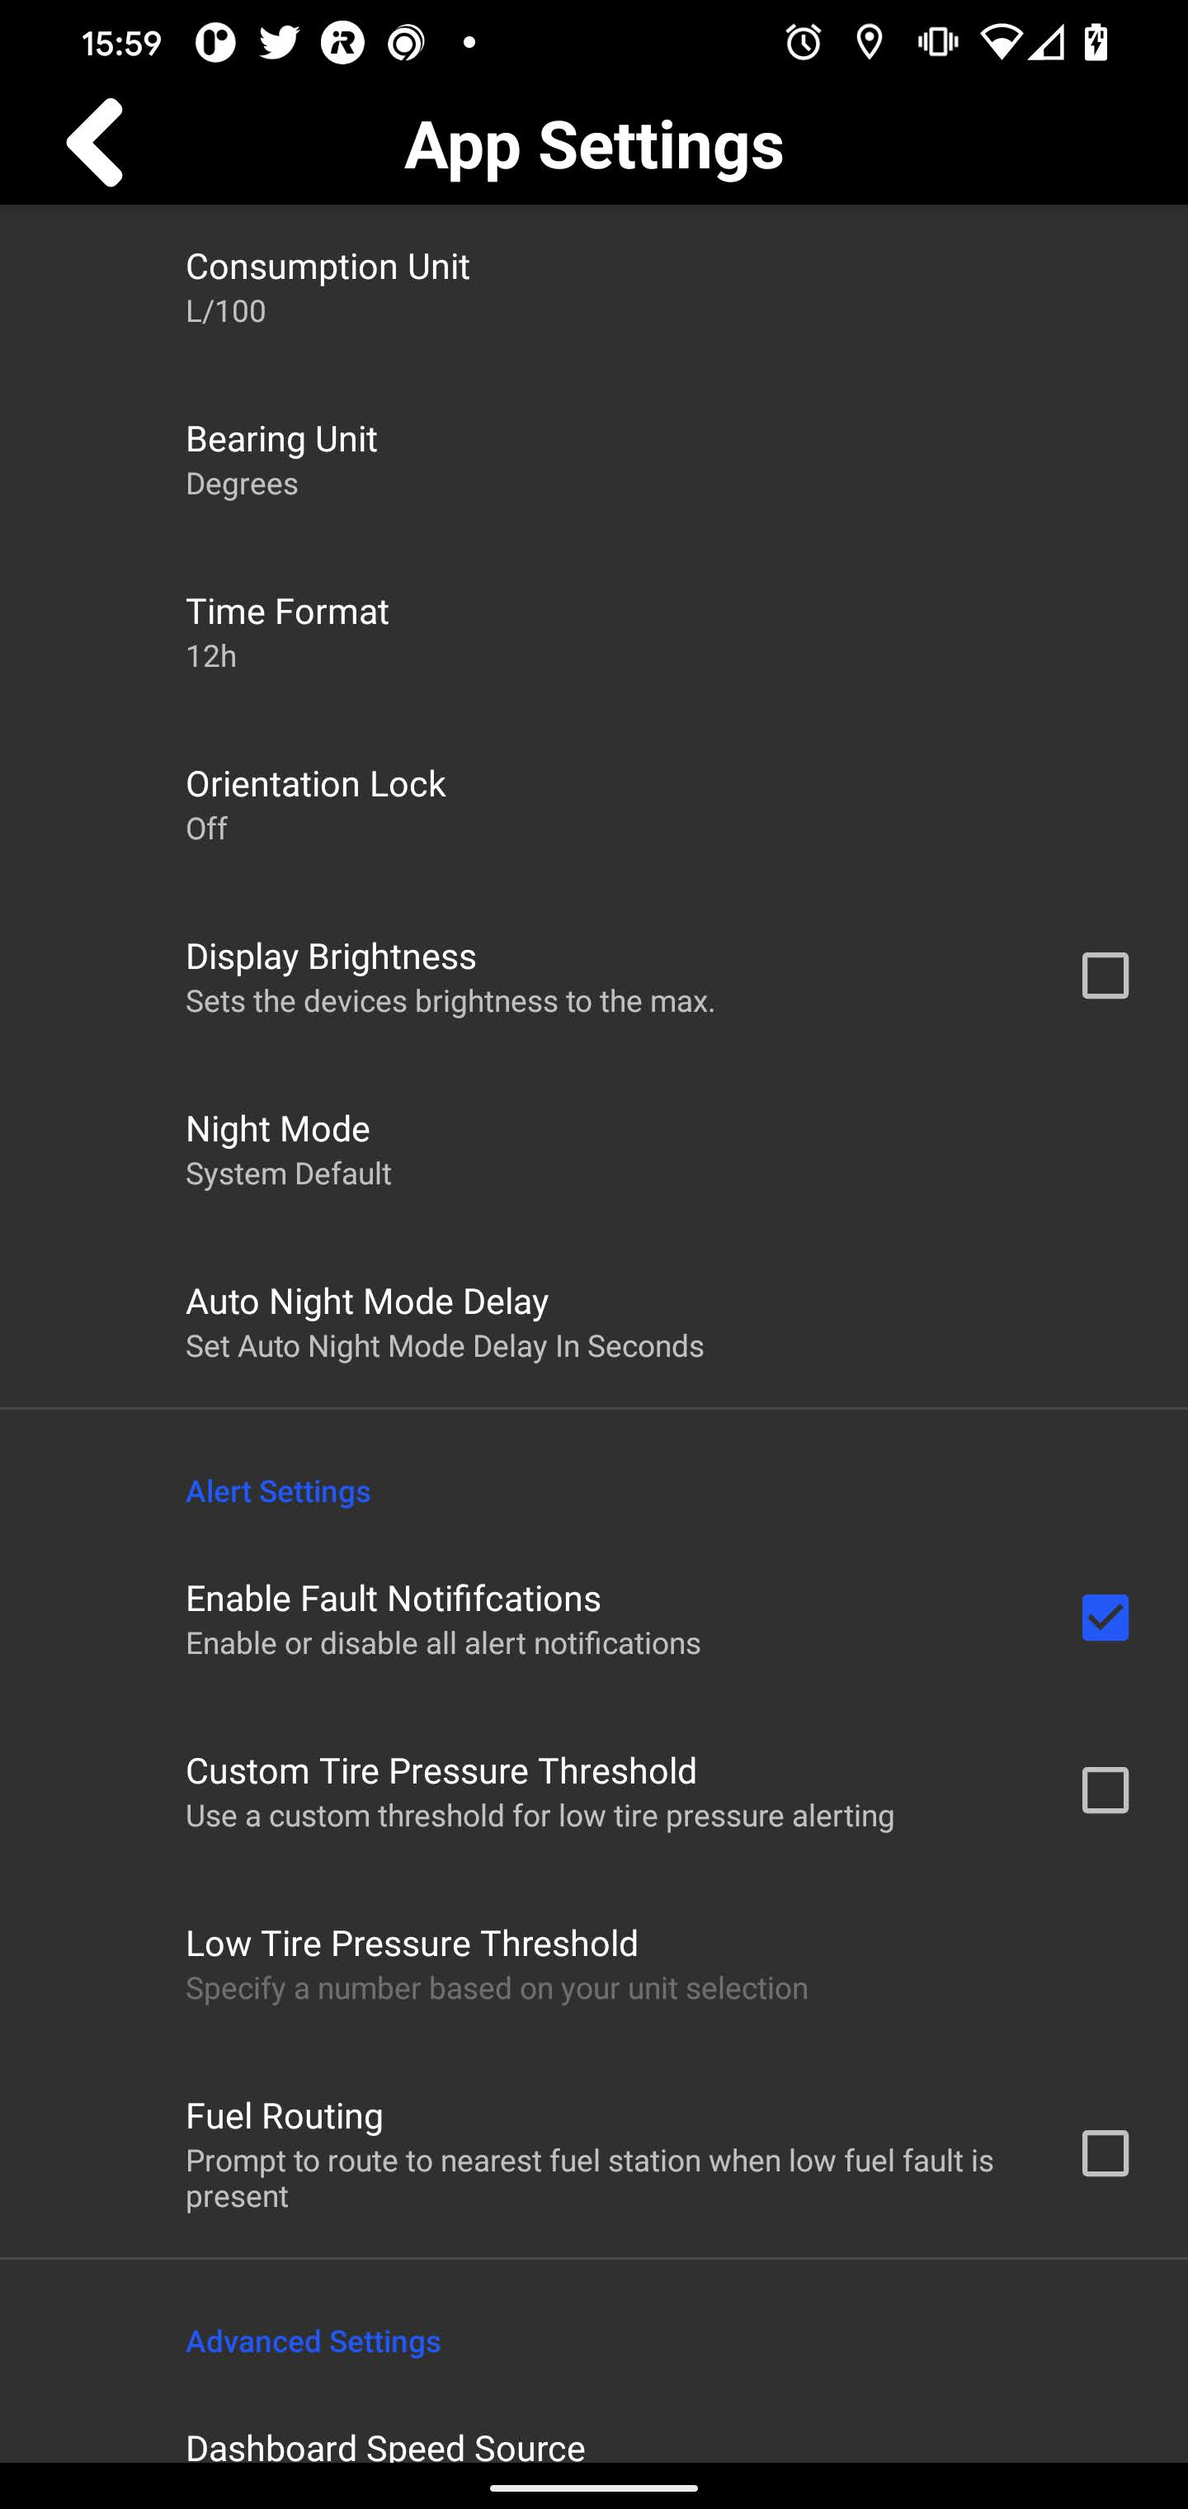
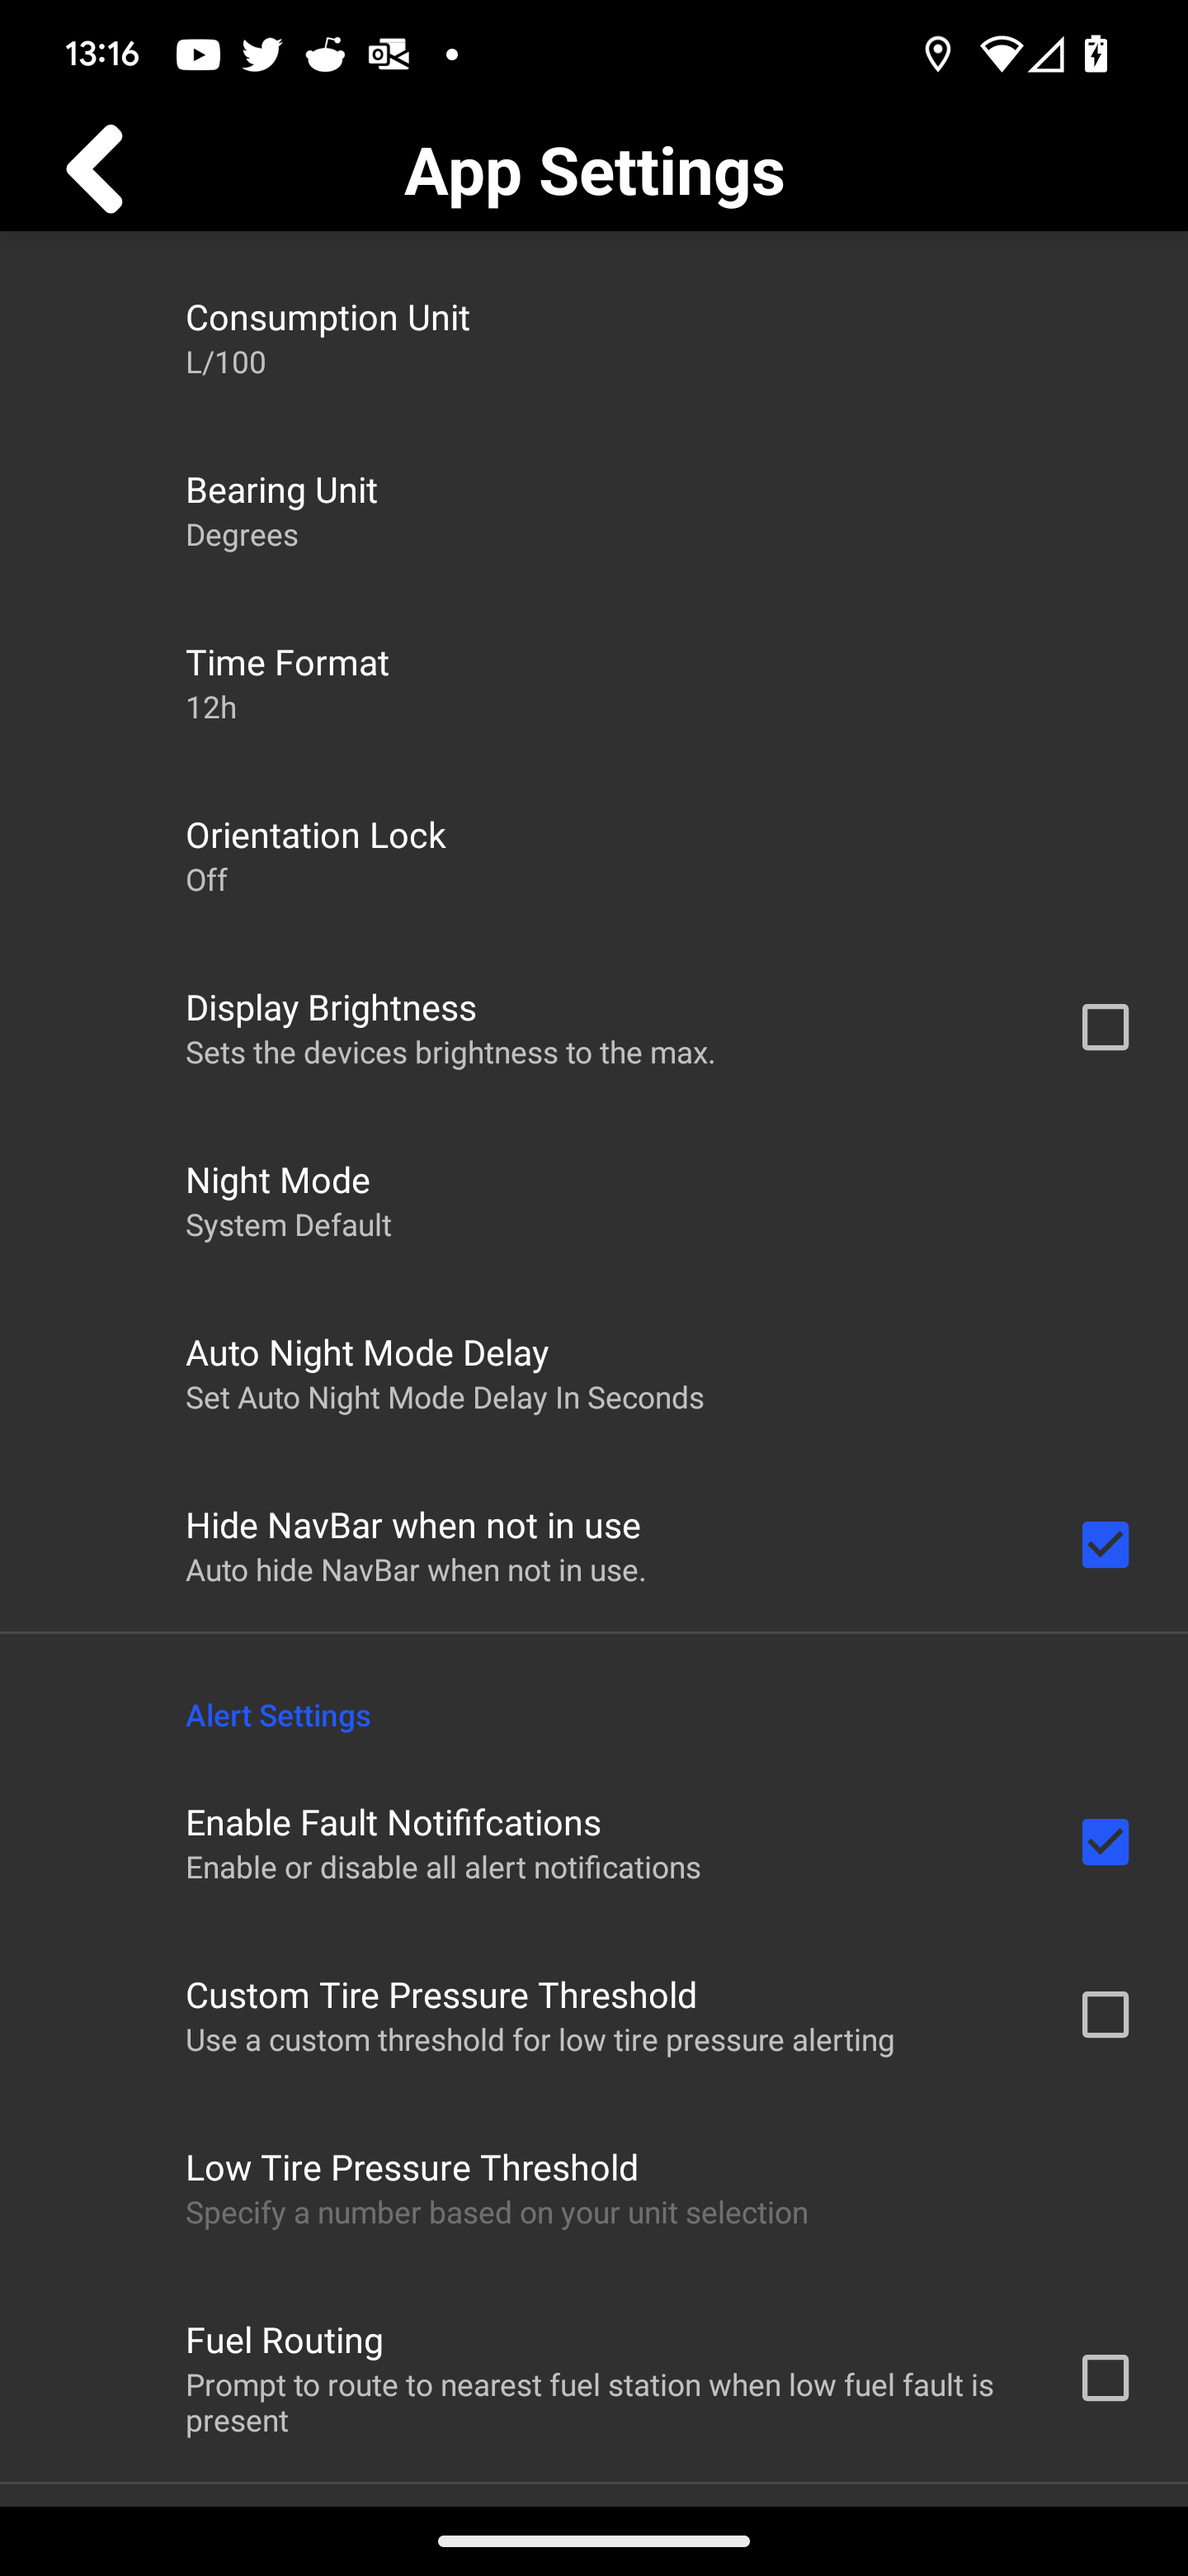
Add Hide NavBar setting

diff --git a/templates/index-android.html b/templates/index-android.html
@@ -1177,6 +1177,11 @@
                                         <td><strong>APP_SETTINGS_NIGHTDELAY_TITLE</strong></td>
                                         <td>APP_SETTINGS_NIGHTDELAY_DESC</td>
                                     </tr>
+                                    </tr>
+                                    <tr>
+                                        <td><strong>APP_SETTINGS_HIDENAVBAR_TITLE</strong></td>
+                                        <td>APP_SETTINGS_HIDENAVBAR_DESC</td>
+                                    </tr>
                                 </table>
                                 <p>APP_SETTINGS_ALERT_TITLE</p>
                                 <table id="table-list" style="width:100%">

diff --git a/templates/index-ios.html b/templates/index-ios.html
@@ -1173,8 +1173,8 @@
                                         <td>APP_SETTINGS_NIGHT_DESC</td>
                                     </tr>
                                     <tr>
-                                        <td><strong>APP_SETTINGS_NIGHTDELAY_TITLE</strong></td>
-                                        <td>APP_SETTINGS_NIGHTDELAY_DESC</td>
+                                        <td><strong>APP_SETTINGS_HIDENAVBAR_TITLE</strong></td>
+                                        <td>APP_SETTINGS_HIDENAVBAR_DESC</td>
                                     </tr>
                                 </table>
                                 <p>APP_SETTINGS_ALERT_TITLE</p>
